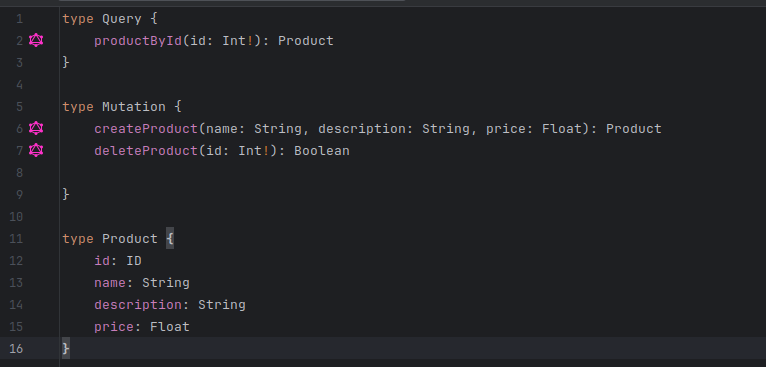
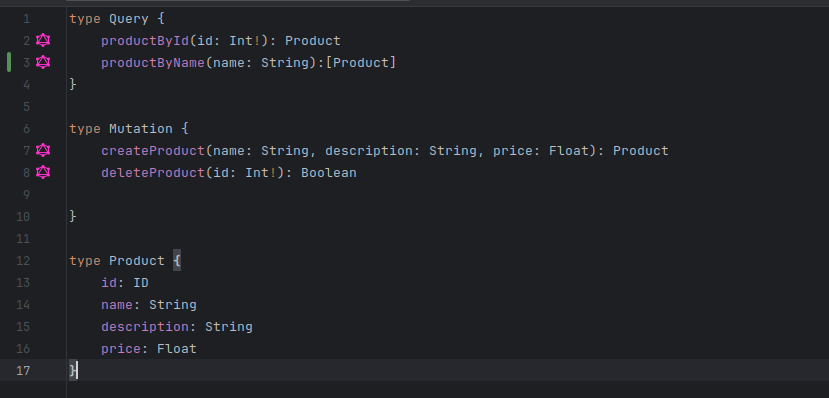
looking for product with name done

diff --git a/complete/src/main/java/com/example/graphqlserver/Controller/ProductController.java b/complete/src/main/java/com/example/graphqlserver/Controller/ProductController.java
@@ -7,7 +7,8 @@ import org.springframework.graphql.data.method.annotation.MutationMapping;
 import org.springframework.graphql.data.method.annotation.QueryMapping;
 import org.springframework.stereotype.Controller;
 
-import java.math.BigDecimal;
+import java.util.Collections;
+import java.util.List;
 
 @Controller
 public class ProductController {
@@ -28,6 +29,20 @@ public class ProductController {
         }
 
         throw new RuntimeException("Nenhum produto com esse ID");
+
+    }
+
+    @QueryMapping
+    public List<ProductEntity> productByName(@Argument String name){
+
+        List<ProductEntity> getProductByName = this.productRepository.findByNameContainingIgnoreCase(name);
+
+        if (getProductByName.isEmpty()){
+
+            throw new RuntimeException("Nenhum nome encontrado");
+        }
+
+        return getProductByName;
 
     }
 

diff --git a/complete/src/main/java/com/example/graphqlserver/Repository/ProductRepository.java b/complete/src/main/java/com/example/graphqlserver/Repository/ProductRepository.java
@@ -3,5 +3,9 @@ package com.example.graphqlserver.Repository;
 import com.example.graphqlserver.Entity.ProductEntity;
 import org.springframework.data.jpa.repository.JpaRepository;
 
+import java.util.List;
+
 public interface ProductRepository extends JpaRepository<ProductEntity, Long> {
+
+    List<ProductEntity> findByNameContainingIgnoreCase(String name);
 }
